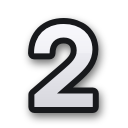
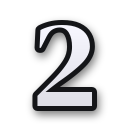
Vote: options with a picture link to it on Discord's picture server; no buttons; new serif digits

Changed region(s): [[0.1875, 0.125, 0.8125, 0.9375]]

diff --git a/test/vote.test.js b/test/vote.test.js
@@ -138,43 +138,35 @@ test('every vote counts as 1%: 50 votes fill half the bar', () => {
   assert.match(text, /1⃣ \*\*A\*\*\n▰{3}▱{3} \*\*50%\*\* · 50 votes/);
 });
 
-test('an option with a picture gets a button that shows it privately for 30 seconds; no thread, no link', async t => {
+test('an option with a picture becomes a blue link to the picture on Discord; no buttons, no thread', async () => {
   const w = world();
+  const uploads = [];
   const deps = {
     fetchImpl: async url => ({ ok: true, arrayBuffer: async () => new TextEncoder().encode(url).buffer }),
-    storeMedia: async buffer => `https://cloudy.example/cloudy-embed-media/${Buffer.from(buffer).toString('hex').slice(-12)}.png`,
+    uploadPictures: async (client, guild, channel, files) => {
+      uploads.push(files.map(file => file?.name || null));
+      return {
+        links: files.map(file => (file ? `https://cdn.discordapp.com/attachments/1/2/${file.name}?ex=1` : null)),
+        media: { channelId: 't1', messageId: 'm1', names: files.map(file => file?.name || null) },
+      };
+    },
   };
   const west = { url: 'https://cdn.discordapp.com/a/west.png', name: 'west.png', contentType: 'image/png', size: 2000 };
-  const south = { url: 'https://cdn.discordapp.com/a/south.png', name: 'south.png', contentType: 'image/png', size: 2000 };
+  const south = { url: 'https://cdn.discordapp.com/a/south.jpg', name: 'south.jpg', contentType: 'image/jpeg', size: 2000 };
   const run = w.command({ question: 'Choose your map', option1: 'DZ West', option2: 'DZ East', option3: 'DZ South', duration: '1h' });
   run.options.getAttachment = name => ({ media1: west, media3: south }[name] || null);
   await vote.execute(run, deps);
+  assert.deepEqual(uploads, [['option1.png', null, 'option3.jpg']], 'each picture stays with its own option');
   const posted = w.sent[0];
-  assert.equal(posted.thread, undefined, 'no thread');
   const text = posted.embeds[0].description;
-  assert.doesNotMatch(text, /\]\(/, 'options stay plain white text');
+  assert.match(text, /\*\*\[DZ West\]\(https:\/\/cdn\.discordapp\.com\/attachments\/1\/2\/option1\.png\?ex=1\)\*\*/);
+  assert.match(text, /\*\*DZ East\*\*/, 'no picture: plain white text');
+  assert.match(text, /\*\*\[DZ South\]\(https:\/\/cdn\.discordapp\.com\/attachments\/1\/2\/option3\.jpg\?ex=1\)\*\*/);
+  assert.doesNotMatch(text, /railway|cloudy-embed-media/);
   assert.match(text, /\*\*Total votes:\*\* 0\n\n\*\*Ends:\*\*/, 'empty line before the end');
-  assert.equal(posted.embeds[0].title, 'Vote');
-  const rows = posted.components.map(row => json(row).components);
-  assert.deepEqual(rows[1].map(button => [button.custom_id, button.label]), [['vote_media:0', 'DZ West'], ['vote_media:2', 'DZ South']]);
-  const stored = await loadVote(w.client, GUILD, posted.id);
-  assert.notEqual(stored.optionImages[0], stored.optionImages[2], 'each option keeps its own picture');
-  assert.equal(stored.optionImages[1], null);
-
-  t.mock.timers.enable({ apis: ['setTimeout'] });
-  const click = { id: 'click-1', guildId: GUILD, message: { id: posted.id },
-    deferReply: async () => {}, editReply: async payload => { click.reply = payload; return { id: 'view' }; },
-    deleteReply: async () => { click.deleted = true; } };
-  await voteMedia.execute(click, w.client, ['2']);
-  assert.equal(click.reply.embeds[0].image.url, stored.optionImages[2]);
-  assert.equal(click.reply.embeds[0].title, undefined);
-  assert.equal(click.reply.embeds[0].thumbnail, undefined);
-  t.mock.timers.tick(29_000);
-  assert.equal(click.deleted, undefined);
-  t.mock.timers.tick(1_000);
-  await new Promise(resolve => { setImmediate(resolve); });
-  assert.equal(click.deleted, true, 'gone after 30 seconds');
-  t.mock.timers.reset();
+  assert.equal(posted.components.length, 1, 'only the vote buttons');
+  assert.equal(posted.thread, undefined, 'no thread on the vote');
+  assert.equal((await loadVote(w.client, GUILD, posted.id)).optionMedia.messageId, 'm1');
 
   const lonely = w.command({ question: 'Q', option1: 'A', option2: 'B' });
   lonely.options.getAttachment = name => (name === 'media3' ? west : null);
@@ -184,4 +176,29 @@ test('an option with a picture gets a button that shows it privately for 30 seco
   video.options.getAttachment = name => (name === 'media1' ? { ...west, contentType: 'video/mp4' } : null);
   await vote.execute(video, deps);
   assert.match(JSON.stringify(json(video.reply.embeds[0])), /must be a picture/);
+});
+
+test('Discord picture links of recent votes are renewed every 12 hours', async () => {
+  const { refreshVotePictureLinks } = await import('../src/services/voteService.js');
+  const w = world();
+  const now = Date.parse('2026-11-05T20:00:00Z');
+  const stored = {
+    messageId: '210000000000000000', channelId: CHANNEL, guildId: GUILD, question: 'Q', options: ['A', 'B'], votes: {},
+    optionLinks: ['https://cdn.discordapp.com/old/a.png?ex=1', null],
+    optionMedia: { channelId: 'thread', messageId: 'store', names: ['option1.png', null] },
+    mediaRefreshedAt: now - 13 * 60 * 60_000, createdAt: new Date(now - 60_000).toISOString(),
+  };
+  await w.client.db.set(`guild:${GUILD}:votes`, { [stored.messageId]: stored });
+  const edits = [];
+  w.client.guilds.cache.get(GUILD).channels.cache.get(CHANNEL).messages.fetch = async () => ({ edit: async payload => { edits.push(payload); } });
+  w.client.channels = { fetch: async () => ({ messages: { fetch: async () => ({
+    attachments: new Collection([['x', { name: 'option1.png', url: 'https://cdn.discordapp.com/new/a.png?ex=2' }]]),
+  }) } }) };
+  await refreshVotePictureLinks(w.client, now);
+  const after = await loadVote(w.client, GUILD, stored.messageId);
+  assert.deepEqual(after.optionLinks, ['https://cdn.discordapp.com/new/a.png?ex=2', null]);
+  assert.equal(after.mediaRefreshedAt, now);
+  assert.match(edits[0].embeds[0].description, /\[A\]\(https:\/\/cdn\.discordapp\.com\/new\/a\.png\?ex=2\)/);
+  await refreshVotePictureLinks(w.client, now + 60_000);
+  assert.equal(edits.length, 1, 'not again within 12 hours');
 });

diff --git a/src/services/voteService.js b/src/services/voteService.js
@@ -6,6 +6,7 @@ import { Mutex } from '../utils/mutex.js';
 import { unwrapReplitData } from '../utils/database.js';
 import { logger } from '../utils/logger.js';
 import { feedEmoji } from './feedEmojiService.js';
+import { freshVotePictureLinks } from './voteMediaService.js';
 
 export const CLOUDY_C_LOGO_URL = 'https://cdn.jsdelivr.net/gh/Dylano24/Cloudy@f2fc2ba3873d420bcdda0e3ea260cf5d312e528a/assets/cloudy-c-logo-auf-auf.gif';
 export const CLOUDY_FOOTER = '© Cloudy Inc. • Quality. Innovation. Performance.';
@@ -71,8 +72,9 @@ export function buildVoteMessage(vote, now = Date.now()) {
   vote.options.forEach((option, index) => {
     // Every vote is 1% (owner's choice), up to 100%.
     const share = Math.min(100, counts[index]) / 100;
-    // An option with a picture stays plain text (its picture is behind a
-    // button); other links (rustmaps.com pages of /mapvote) stay links.
+    // An option with a picture is a blue link that opens it (Discord's own
+    // picture link); /mapvote links to rustmaps.com. Votes from before this
+    // (pictures behind buttons) show plain text.
     const link = optionPicture(vote, index) ? null : vote.optionLinks?.[index];
     const label = link && !CLOUDY_MEDIA.test(link) ? `[${option}](${link})` : option;
     lines.push(`${numberIcon(index)} **${label}**${vote.optionNotes?.[index] ? ` · ${vote.optionNotes[index]}` : ''}`);
@@ -97,14 +99,6 @@ export function buildVoteMessage(vote, now = Date.now()) {
   const rows = [];
   for (let start = 0; start < buttons.length; start += 5) {
     rows.push(new ActionRowBuilder().addComponents(buttons.slice(start, start + 5)));
-  }
-  // Options with a picture get a grey button with their name: it shows the
-  // picture privately for 30 seconds (owner's choice; a link cannot do that).
-  const pictureButtons = vote.options.map((option, index) => (optionPicture(vote, index)
-    ? new ButtonBuilder().setCustomId(`vote_media:${index}`).setEmoji('🖼').setLabel(option.slice(0, 80)).setStyle(ButtonStyle.Secondary)
-    : null)).filter(Boolean);
-  for (let start = 0; start < pictureButtons.length && rows.length < 5; start += 5) {
-    rows.push(new ActionRowBuilder().addComponents(pictureButtons.slice(start, start + 5)));
   }
 
   const images = (vote.images || []).slice(0, 4);
@@ -200,11 +194,43 @@ export async function endDueVotes(client) {
   }
 }
 
+// Discord's picture links expire after about a day: the links of votes from
+// the last 30 days are renewed every 12 hours (same message, same layout).
+const MEDIA_REFRESH_MS = 12 * 60 * 60_000;
+const MEDIA_KEEP_MS = 30 * 24 * 60 * 60_000;
+
+export async function refreshVotePictureLinks(client, now = Date.now()) {
+  for (const guild of client.guilds?.cache?.values?.() || []) {
+    const votes = await readVotes(client, guild.id).catch(() => ({}));
+    for (const vote of Object.values(votes)) {
+      if (!vote.optionMedia || now - (vote.mediaRefreshedAt || 0) < MEDIA_REFRESH_MS) continue;
+      if (now - Date.parse(vote.createdAt || 0) > MEDIA_KEEP_MS) continue;
+      const links = await freshVotePictureLinks(client, vote.optionMedia).catch(() => null);
+      if (!links) continue;
+      const updated = await Mutex.runExclusive(votesKey(guild.id), async () => {
+        const current = await readVotes(client, guild.id);
+        const stored = current[vote.messageId];
+        if (!stored) return null;
+        current[vote.messageId] = { ...stored, optionLinks: links, mediaRefreshedAt: now };
+        await writeVotes(client, guild.id, current);
+        return current[vote.messageId];
+      }).catch(() => null);
+      if (!updated) continue;
+      const channel = guild.channels?.cache?.get?.(updated.channelId);
+      const message = await channel?.messages?.fetch?.(updated.messageId).catch(() => null);
+      if (message?.edit) await message.edit(buildVoteMessage(updated)).catch(error => logger.warn('Could not renew vote picture links:', error));
+    }
+  }
+}
+
 let started = false;
 export function startVoteTimer(client) {
   if (started) return;
   started = true;
-  const timer = setInterval(() => { void endDueVotes(client).catch(() => {}); }, 60_000);
+  const timer = setInterval(() => {
+    void endDueVotes(client).catch(() => {});
+    void refreshVotePictureLinks(client).catch(() => {});
+  }, 60_000);
   timer.unref?.();
   void endDueVotes(client).catch(() => {});
 }

diff --git a/src/commands/Tools/vote.js b/src/commands/Tools/vote.js
@@ -4,10 +4,11 @@ import { CLOUDY_RED_COLOR, setPreservedEmbedColor } from '../../utils/embedColor
 import { warningEmbed } from '../../utils/embeds.js';
 import { parseDuration } from '../../services/giveawayService.js';
 import { buildVoteMessage, saveVote } from '../../services/voteService.js';
-import { storeEmbedMediaBuffer } from '../../services/embedMediaStorageService.js';
+import { uploadVotePictures } from '../../services/voteMediaService.js';
 
 const VOTE_OPTIONS = 3;
 const MAX_MEDIA_BYTES = 10 * 1024 * 1024;
+const EXTENSIONS = { 'image/png': 'png', 'image/jpeg': 'jpg', 'image/gif': 'gif', 'image/webp': 'webp' };
 
 // Short replies disappear after exactly 10 seconds.
 function removeAfterTenSeconds(interaction) {
@@ -23,8 +24,8 @@ async function notice(interaction, embed) {
 // /vote (owner's choice, was /poll): a vote with buttons and live counts.
 export default {
   // Only what the owner wants (owner's choice): the question, three options,
-  // each followed by an optional picture (the option becomes a link to it, e.g.
-  // the map), and a duration. Discord lists required options first, so only
+  // each followed by an optional picture (the option becomes a blue link that
+  // opens it, e.g. the map), and a duration. Discord lists required options first, so only
   // the question and option 1 are required there; a second option is checked below.
   data: (() => {
     const command = new SlashCommandBuilder()
@@ -67,30 +68,37 @@ export default {
         return warn(error?.userMessage || 'Use a duration like 30m, 1h or 2d.');
       }
     }
-    // Each picture is stored as permanent Cloudy media. A link cannot open a
-    // private message in Discord, so every option with a picture gets a grey
-    // button under the vote that shows it privately for 30 seconds.
-    const store = dependencies.storeMedia || storeEmbedMediaBuffer;
+    // Pictures (owner's choice): uploaded to Discord, each option with a
+    // picture becomes a blue link that opens it (voteMediaService.js).
     const fetchImpl = dependencies.fetchImpl || fetch;
-    const optionImages = [];
+    const files = [];
     for (const [index, picture] of media.entries()) {
-      if (!picture) { optionImages.push(null); continue; }
+      if (!picture) { files.push(null); continue; }
       try {
-        if (!String(picture.contentType || '').startsWith('image/')) throw new Error(`Media ${index + 1} must be a picture.`);
+        const type = String(picture.contentType || '');
+        if (!type.startsWith('image/')) throw new Error(`Media ${index + 1} must be a picture.`);
         if (picture.size > MAX_MEDIA_BYTES) throw new Error(`Media ${index + 1} is larger than 10 MB.`);
         const response = await fetchImpl(picture.url, { signal: AbortSignal.timeout(30_000) });
         if (!response.ok) throw new Error(`Media ${index + 1} could not be downloaded.`);
-        const url = await store(Buffer.from(await response.arrayBuffer()));
-        if (!url) throw new Error('Media cannot be stored right now.');
-        optionImages.push(url);
+        const extension = EXTENSIONS[type.split(';')[0]]
+          || String(picture.name || '').match(/\.(png|jpe?g|gif|webp|heic|heif)$/i)?.[1]?.toLowerCase() || 'png';
+        files.push({ attachment: Buffer.from(await response.arrayBuffer()), name: `option${index + 1}.${extension}` });
       } catch (error) {
         return warn(error?.message || `Media ${index + 1} could not be added.`);
+      }
+    }
+    let pictures = null;
+    if (files.some(Boolean)) {
+      try {
+        pictures = await (dependencies.uploadPictures || uploadVotePictures)(interaction.client, interaction.guild, interaction.channel, files);
+      } catch (error) {
+        return warn(error?.message || 'The pictures could not be added.');
       }
     }
     const vote = {
       messageId: null, channelId: interaction.channelId, guildId: interaction.guildId,
       question, options, votes: {}, endsAt, ended: false,
-      ...(optionImages.some(Boolean) ? { optionImages } : {}),
+      ...(pictures ? { optionLinks: pictures.links, optionMedia: pictures.media, mediaRefreshedAt: Date.now() } : {}),
       createdBy: interaction.user.id, createdAt: new Date().toISOString(),
     };
     const message = await interaction.channel.send(buildVoteMessage(vote));

diff --git a/src/services/voteMediaService.js b/src/services/voteMediaService.js
@@ -1,0 +1,53 @@
+// Vote pictures (owner's choice): every option with a picture becomes a blue
+// link to that picture on Discord's own picture server (cdn.discordapp.com),
+// so it opens straight away: no website warning and no Cloudy address. The
+// pictures are uploaded once to a private "vote-media" thread (in #botlog,
+// only Cloudy and staff see it). Discord's picture links expire after about a
+// day, so Cloudy renews the links of recent votes every 12 hours.
+import { ChannelType, ThreadAutoArchiveDuration } from 'discord.js';
+import { findCloudyChannelByAlias, getCloudyChannelDefinition } from './cloudyChannelResolver.js';
+
+const THREAD_KEY = guildId => `guild:${guildId}:vote-media-thread`;
+const THREAD_NAME = 'vote-media';
+
+async function storageThread(client, guild, fallbackChannel) {
+  const savedId = await client.db.get(THREAD_KEY(guild.id), null);
+  if (savedId) {
+    const existing = await client.channels.fetch(savedId).catch(() => null);
+    // An archived thread opens again when Cloudy posts in it.
+    if (existing?.send && !existing.locked) return existing;
+  }
+  const definition = getCloudyChannelDefinition('botlog');
+  const parent = findCloudyChannelByAlias(guild, definition?.aliases || [], { textOnly: true }) || fallbackChannel;
+  if (!parent?.threads?.create) return null;
+  const thread = await parent.threads.create({
+    name: THREAD_NAME, type: ChannelType.PrivateThread, invitable: false,
+    autoArchiveDuration: ThreadAutoArchiveDuration.OneWeek, reason: 'Cloudy vote pictures',
+  });
+  await client.db.set(THREAD_KEY(guild.id), thread.id);
+  return thread;
+}
+
+const linksFrom = (message, names) => {
+  const byName = new Map([...(message.attachments?.values?.() || [])].map(item => [item.name, item.url]));
+  return names.map(name => (name ? byName.get(name) || null : null));
+};
+
+/**
+ * Uploads the pictures (one entry per option, null without a picture) and
+ * returns the picture link per option plus where they are stored.
+ */
+export async function uploadVotePictures(client, guild, fallbackChannel, files) {
+  const thread = await storageThread(client, guild, fallbackChannel);
+  if (!thread) throw new Error('Cloudy cannot store the pictures right now.');
+  const message = await thread.send({ files: files.filter(Boolean), allowedMentions: { parse: [] } });
+  const names = files.map(file => file?.name || null);
+  return { links: linksFrom(message, names), media: { channelId: thread.id, messageId: message.id, names } };
+}
+
+/** Fresh picture links for a vote, or null when the stored pictures are gone. */
+export async function freshVotePictureLinks(client, media) {
+  const thread = await client.channels.fetch(media.channelId).catch(() => null);
+  const message = await thread?.messages?.fetch?.(media.messageId).catch(() => null);
+  return message ? linksFrom(message, media.names) : null;
+}

diff --git a/test/voteMedia.test.js b/test/voteMedia.test.js
@@ -1,0 +1,47 @@
+import test from 'node:test';
+import assert from 'node:assert/strict';
+import { ChannelType, Collection } from 'discord.js';
+import { freshVotePictureLinks, uploadVotePictures } from '../src/services/voteMediaService.js';
+
+function setup() {
+  const store = new Map();
+  const created = [];
+  const posts = [];
+  const thread = {
+    id: 'thread-1', locked: false,
+    send: async payload => {
+      posts.push(payload);
+      return { id: `m${posts.length}`, attachments: new Collection(payload.files.map((file, index) => [String(index), {
+        name: file.name, url: `https://cdn.discordapp.com/attachments/thread-1/m${posts.length}/${file.name}?ex=1`,
+      }])) };
+    },
+    messages: { fetch: async () => ({ attachments: new Collection([['0', { name: 'option1.png', url: 'https://cdn.discordapp.com/fresh/option1.png?ex=9' }]]) }) },
+  };
+  const botlog = { id: 'botlog', name: 'botlog', type: ChannelType.GuildText, isTextBased: () => true,
+    threads: { create: async options => { created.push(options); return thread; } } };
+  const guild = { id: 'g1', channels: { cache: new Collection([[botlog.id, botlog]]) } };
+  const client = {
+    db: { get: async (key, fallback = null) => (store.has(key) ? store.get(key) : fallback), set: async (key, value) => { store.set(key, value); return true; } },
+    channels: { fetch: async id => (id === thread.id ? thread : null) },
+  };
+  return { client, guild, created, posts };
+}
+
+test('vote pictures go to one private vote-media thread in #botlog and give Discord picture links', async () => {
+  const s = setup();
+  const files = [{ attachment: Buffer.from('a'), name: 'option1.png' }, null, { attachment: Buffer.from('c'), name: 'option3.jpg' }];
+  const result = await uploadVotePictures(s.client, s.guild, null, files);
+  assert.equal(s.created.length, 1);
+  assert.equal(s.created[0].type, ChannelType.PrivateThread);
+  assert.equal(s.created[0].name, 'vote-media');
+  assert.deepEqual(result.links, [
+    'https://cdn.discordapp.com/attachments/thread-1/m1/option1.png?ex=1', null,
+    'https://cdn.discordapp.com/attachments/thread-1/m1/option3.jpg?ex=1',
+  ]);
+  assert.deepEqual(result.media, { channelId: 'thread-1', messageId: 'm1', names: ['option1.png', null, 'option3.jpg'] });
+  // The same thread is used again.
+  await uploadVotePictures(s.client, s.guild, null, [files[0]]);
+  assert.equal(s.created.length, 1);
+  assert.equal(s.posts.length, 2);
+  assert.deepEqual(await freshVotePictureLinks(s.client, result.media), ['https://cdn.discordapp.com/fresh/option1.png?ex=9', null, null]);
+});

diff --git a/src/services/feedEmojiService.js b/src/services/feedEmojiService.js
@@ -60,11 +60,11 @@ for (const [key, id, aliases] of WEAPONS) {
   BASE_EMOJIS[`w_${key}`] = { name: `rust_${key}`, unwhite: true, id, aliases, fallback: `<:rust_${key}:${id}>` };
 }
 // Vote emojis (owner's choice), made in this repo (assets/vote-emojis) and
-// uploaded as application emojis: clean white custom digits 1 to 10, the
-// green progress bar pieces and the ballot icon before the title. Until they
-// are uploaded the plain fallback is shown.
+// uploaded as application emojis: white serif digits 1 to 10 in the style of
+// the Cloudy logo, the green progress bar pieces and the ballot icon. Until
+// they are uploaded the plain fallback is shown.
 ['1⃣', '2⃣', '3⃣', '4⃣', '5⃣', '6⃣', '7⃣', '8⃣', '9⃣', '🔟'].forEach((keycap, index) => {
-  BASE_EMOJIS[`vote_${index + 1}`] = { name: `vote_${index + 1}_digit`, file: `../../assets/vote-emojis/digit_${index + 1}.png`, fallback: keycap };
+  BASE_EMOJIS[`vote_${index + 1}`] = { name: `vote_${index + 1}_serif`, file: `../../assets/vote-emojis/digit_${index + 1}.png`, fallback: keycap };
 });
 for (const piece of ['lf', 'mf', 'rf', 'le', 'me', 're']) {
   BASE_EMOJIS[`bar_${piece}`] = { name: `vb_${piece}`, file: `../../assets/vote-emojis/bar_${piece}.png`, fallback: piece.endsWith('f') ? '▰' : '▱' };

diff --git a/AGENTS.md b/AGENTS.md
@@ -104,7 +104,7 @@ Ticket logs are excluded from all rules in this section and must remain unchange
 
 ## Vote
 
-- `/vote` replaces `/poll` (owner's choice): only the question, 3 options and an optional duration; after each option an optional picture `media1`..`media3` (e.g. its map). A picture is stored as permanent Cloudy media (`storeEmbedMediaBuffer`, up to 10 MB); that option gets a grey 🖼 button with its name under the vote (`vote_media:<index>`) that shows the picture privately in an embed (picture and Cloudy footer only, no title or logo) and removes it after 30 seconds (also at a restart). Options stay plain white text: Discord cannot open a private message from a link (owner's choice after trying links and a thread). Discord lists required options first, so only question and option1 are required there; at least two options are checked in the command. The embed ("Vote", "Vote ended"; no emoji before the title) shows each option as a custom white digit emoji with the option in bold, a green progress bar of 6 custom emoji pieces, the percentage in bold (every vote counts as 1%, up to 100%; owner's choice) and the count, then total votes, an empty line and the end time, with the Cloudy logo and footer; one button per option showing only its digit (`vote_cast:<index>`). Digits 1-10, bar pieces and the ballot icon are made in `assets/vote-emojis` and uploaded as application emojis (`feedEmojiService.js`). One vote per member: another option changes it, the same option removes it; only counts are shown, never who voted. Votes are stored per guild (`guild:<id>:votes`) and closed every minute when their time passes (winner or tie shown, buttons disabled). Notices disappear after 10 seconds.
+- `/vote` replaces `/poll` (owner's choice): only the question, 3 options and an optional duration; after each option an optional picture `media1`..`media3` (e.g. its map). A picture (up to 10 MB) is uploaded once to a private "vote-media" thread in #botlog (`voteMediaService.js`, only Cloudy and staff see it) and that option becomes a bold blue link to the picture on Discord's own picture server (cdn.discordapp.com: opens straight away, no website warning, no Cloudy/Railway address). Options without a picture stay plain white text; there are no picture buttons and no thread on the vote (owner's choice). Discord's picture links expire after about a day, so `refreshVotePictureLinks` renews the links of votes from the last 30 days every 12 hours (same message, same layout). Discord lists required options first, so only question and option1 are required there; at least two options are checked in the command. The embed ("Vote", "Vote ended"; no emoji before the title) shows each option as a custom white serif digit emoji (Cloudy logo style, `vote_N_serif`) with the option in bold, a green progress bar of 6 custom emoji pieces, the percentage in bold (every vote counts as 1%, up to 100%; owner's choice) and the count, then total votes, an empty line and the end time, with the Cloudy logo and footer; one button per option showing only its digit (`vote_cast:<index>`). Digits 1-10, bar pieces and the ballot icon are made in `assets/vote-emojis` and uploaded as application emojis (`feedEmojiService.js`). One vote per member: another option changes it, the same option removes it; only counts are shown, never who voted. Votes are stored per guild (`guild:<id>:votes`) and closed every minute when their time passes (winner or tie shown, buttons disabled). Notices disappear after 10 seconds.
 
 - `/mapvote` (staff, Manage Server; owner's choice): three Rust maps from rustmaps.com in one vote (`rustMapsService.js`): your own pictures (`picture1`..`picture3`, e.g. console screenshots; images up to 10 MB, sent again with the vote as `attachment://mapN.ext` so they never expire), the maps you give (`map1`..`map3`, a rustmaps.com link or `size_seed`) or random ones from the front page. One embed shows the three map pictures small side by side (embeds with the same url form a gallery; a click opens the full picture), each option links to its rustmaps.com page with size and seed, and the buttons 1 to 3 use the custom digit emojis made in `assets/vote-emojis` and uploaded as application emojis (`feedEmojiService.js`; keycaps until uploaded). Counting, one vote per member and the end time work as in `/vote`.
 
